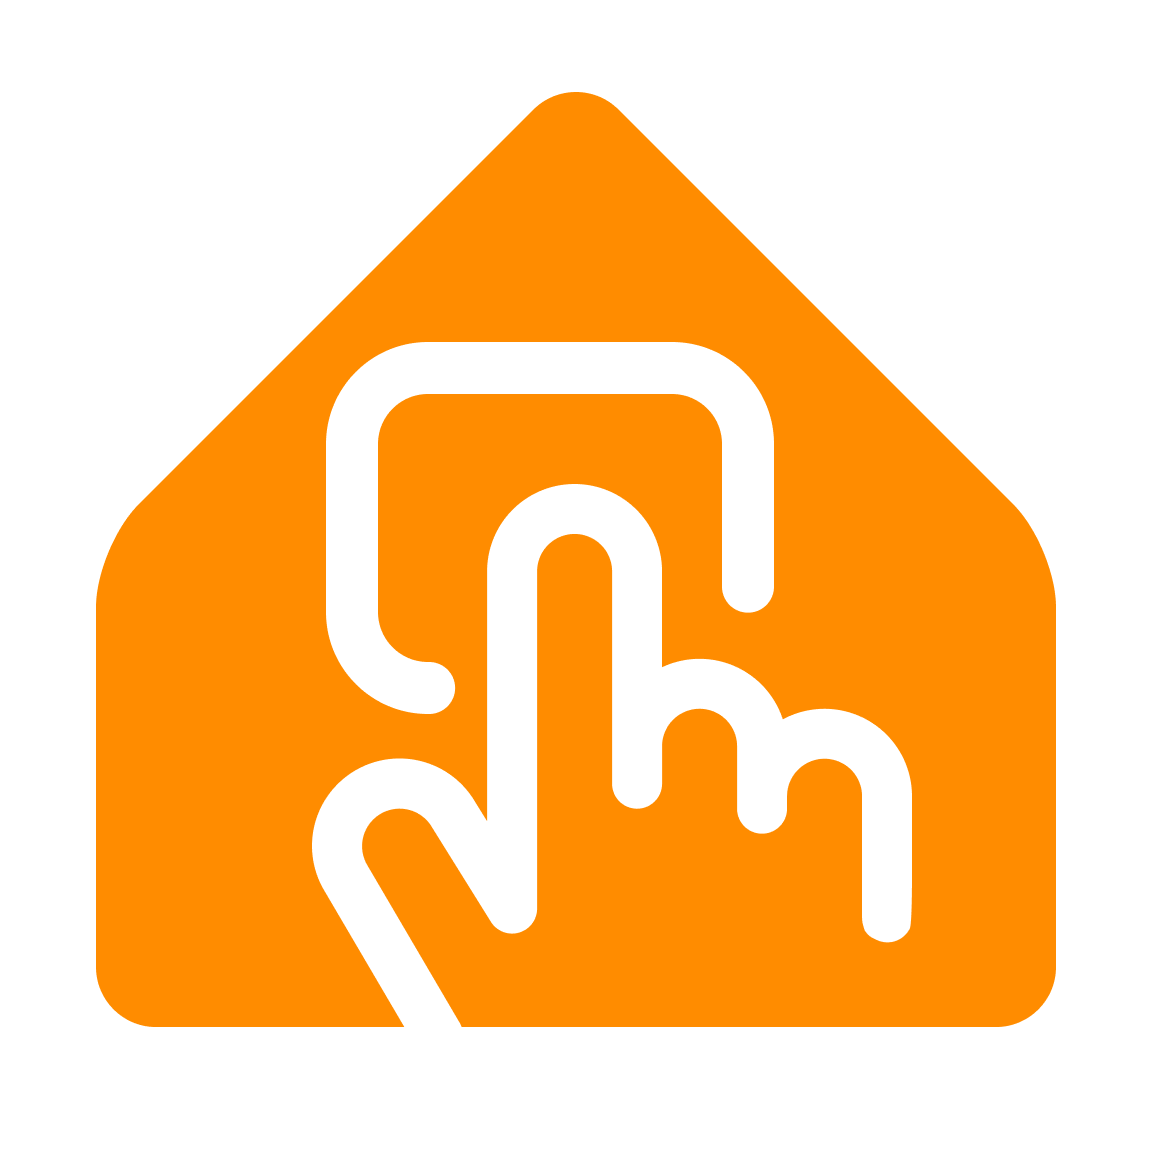
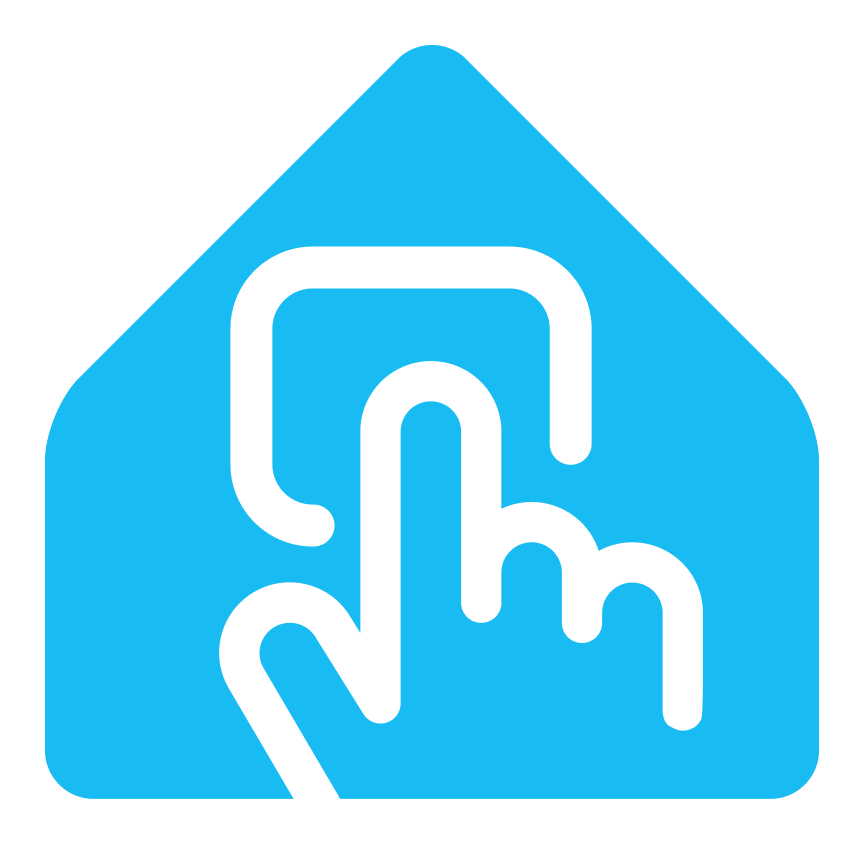
Use EspControl artwork for Home Assistant and HACS branding

diff --git a/brand/README.md b/brand/README.md
@@ -1,0 +1,16 @@
+# EspControl branding
+
+`icon.png` and `logo.png` use the supplied EspControl artwork unchanged: an
+864 × 864 transparent PNG with a blue house and white touch symbol. The same
+artwork is used on light and dark backgrounds.
+
+Keep these files identical to the copies in
+`custom_components/espcontrol/brand/`. The integration copies are included in
+HACS downloads and release packages, and Home Assistant serves them as local
+brand images. The root copies are available for repository branding and the
+README displayed by HACS.
+
+Home Assistant supports bundled brand images from 2026.3 onward. No manifest
+icon setting is needed.
+See the [Home Assistant brand image documentation](https://developers.home-assistant.io/docs/core/integration/brand_images/)
+and [HACS brand asset requirements](https://hacs.xyz/docs/publish/integration/#brand-assets).

diff --git a/README.md b/README.md
@@ -1,5 +1,7 @@
 # EspControl Integration
 
+<img src="https://raw.githubusercontent.com/jtenniswood/espcontrol-integration/main/brand/icon.png" alt="EspControl" width="128" height="128">
+
 This repository contains the experimental EspControl integration. It is a HACS-installable
 custom integration and is not a Home Assistant Core contribution.
 

diff --git a/custom_components/espcontrol/README.md b/custom_components/espcontrol/README.md
@@ -1,5 +1,7 @@
 # EspControl Integration proof of concept
 
+<img src="https://raw.githubusercontent.com/jtenniswood/espcontrol-integration/main/brand/icon.png" alt="EspControl" width="128" height="128">
+
 This directory is a local custom integration prototype. It is not a Home
 Assistant Core contribution.
 
